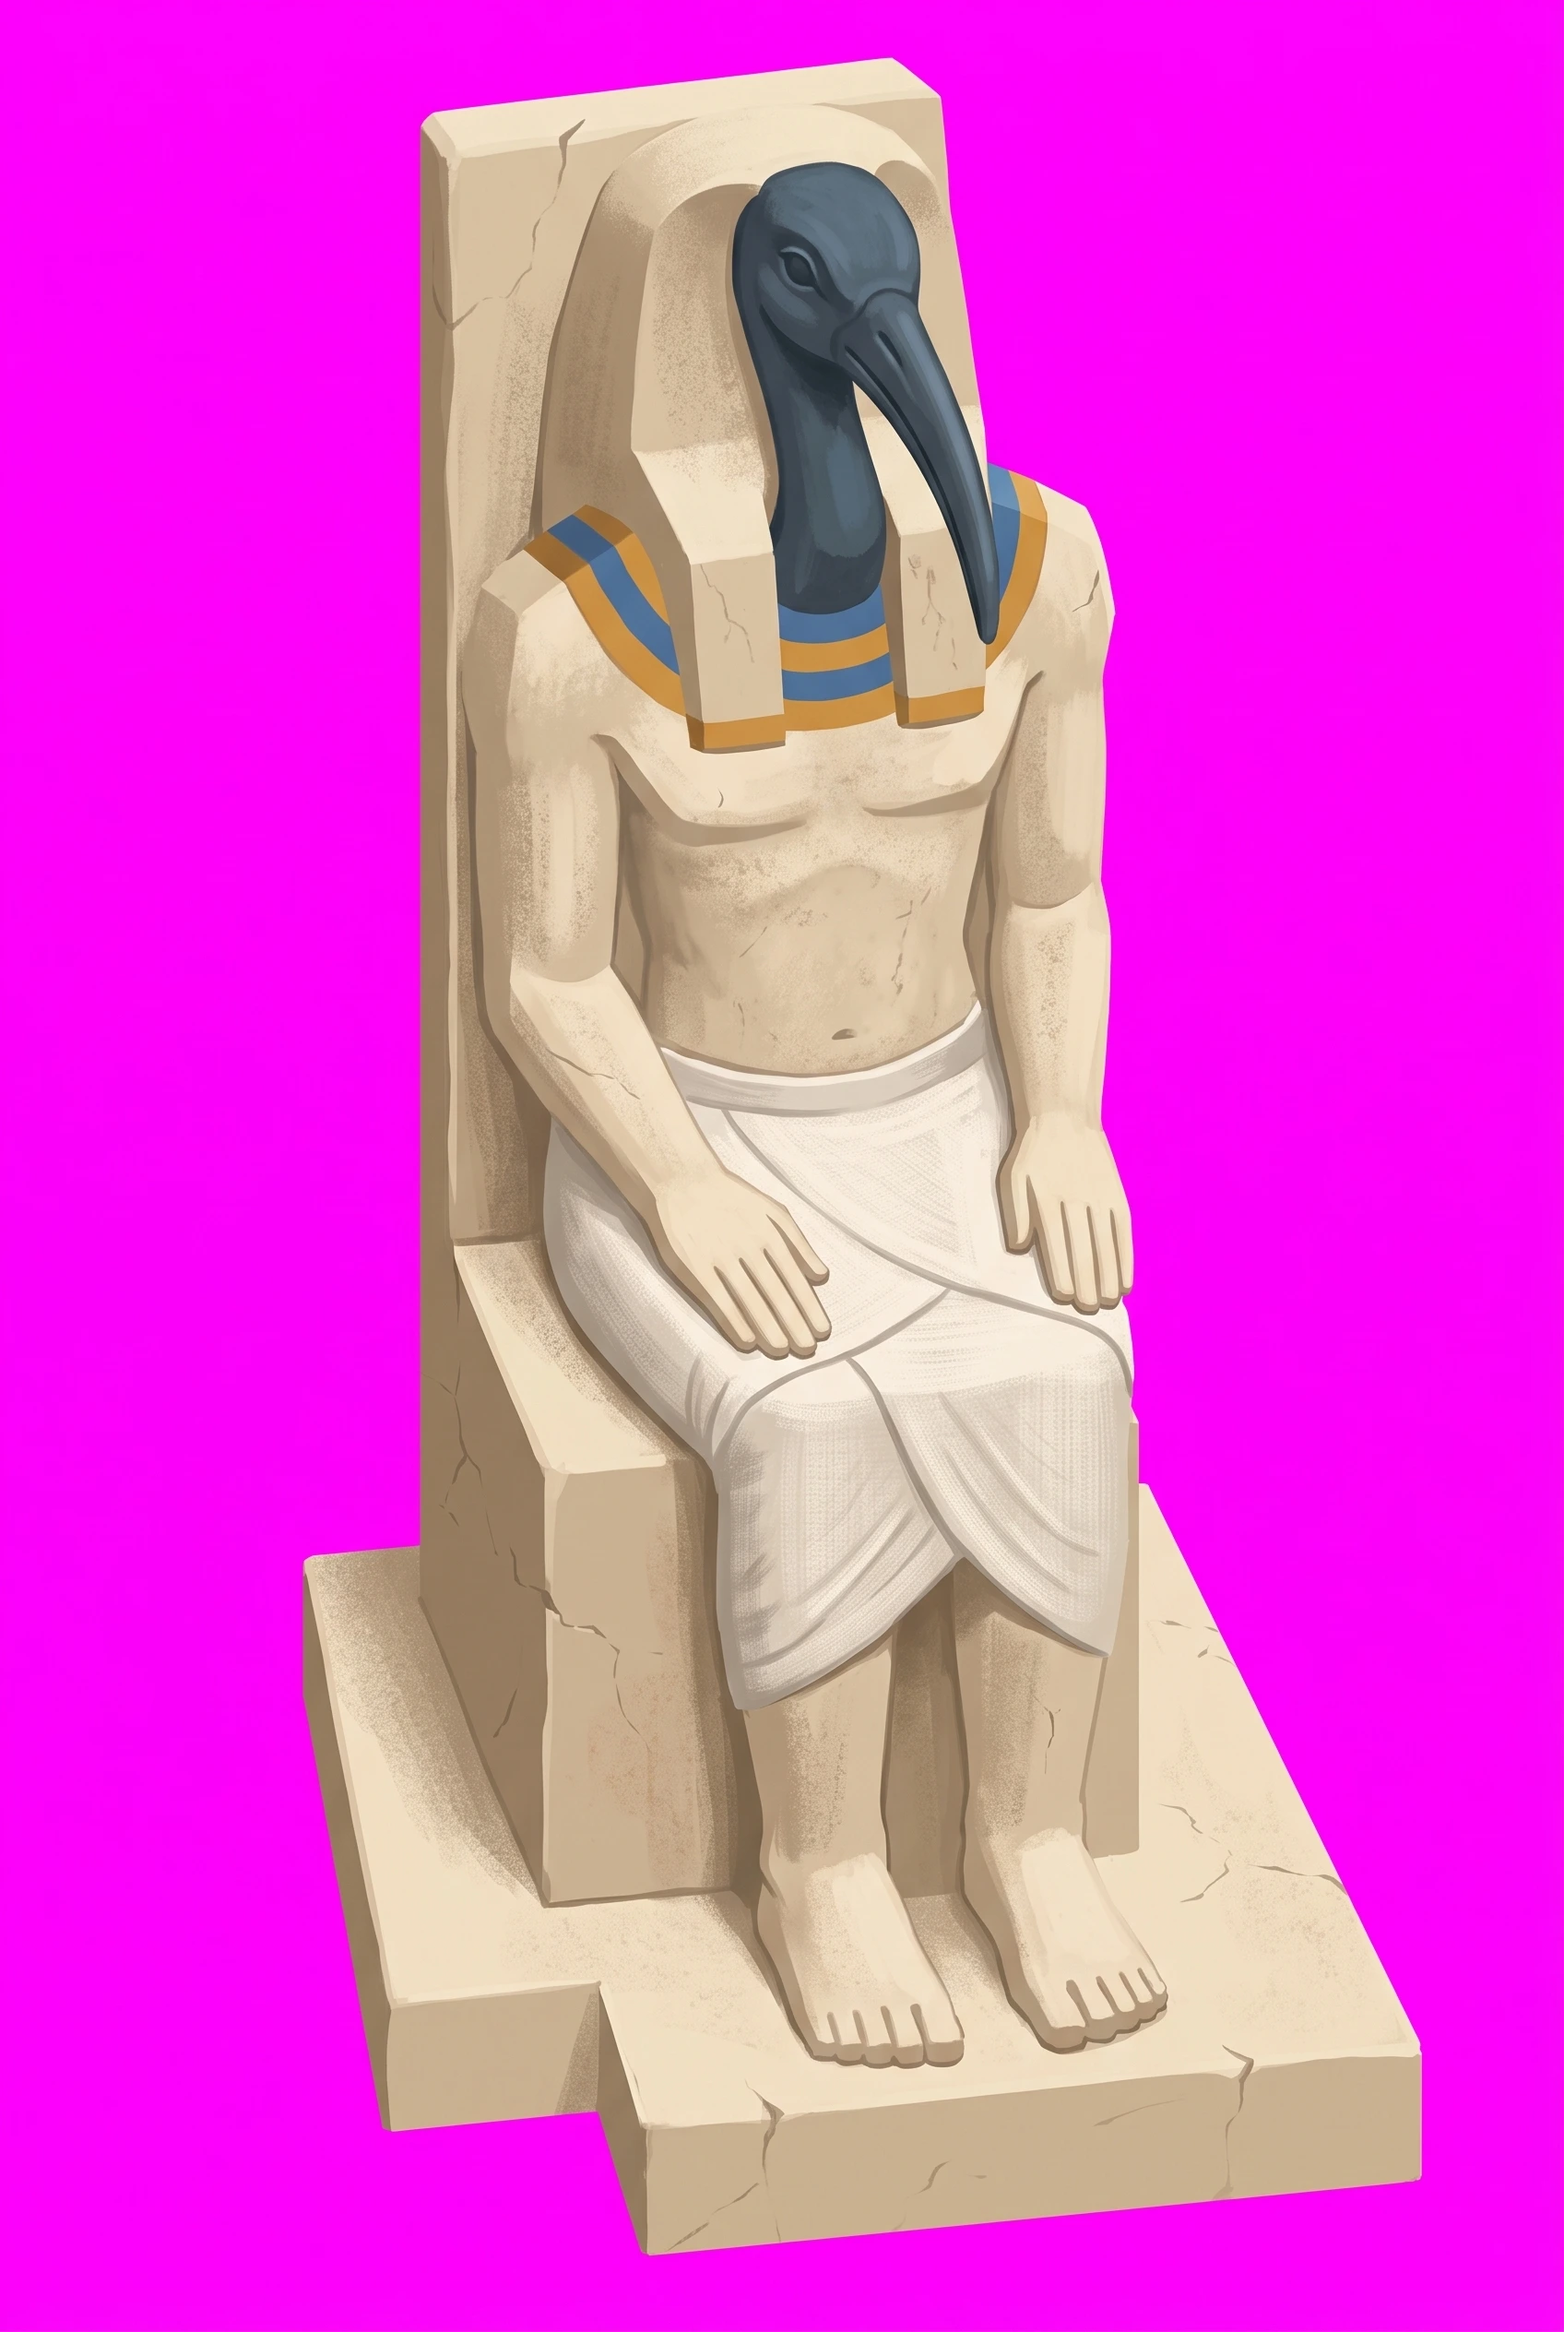
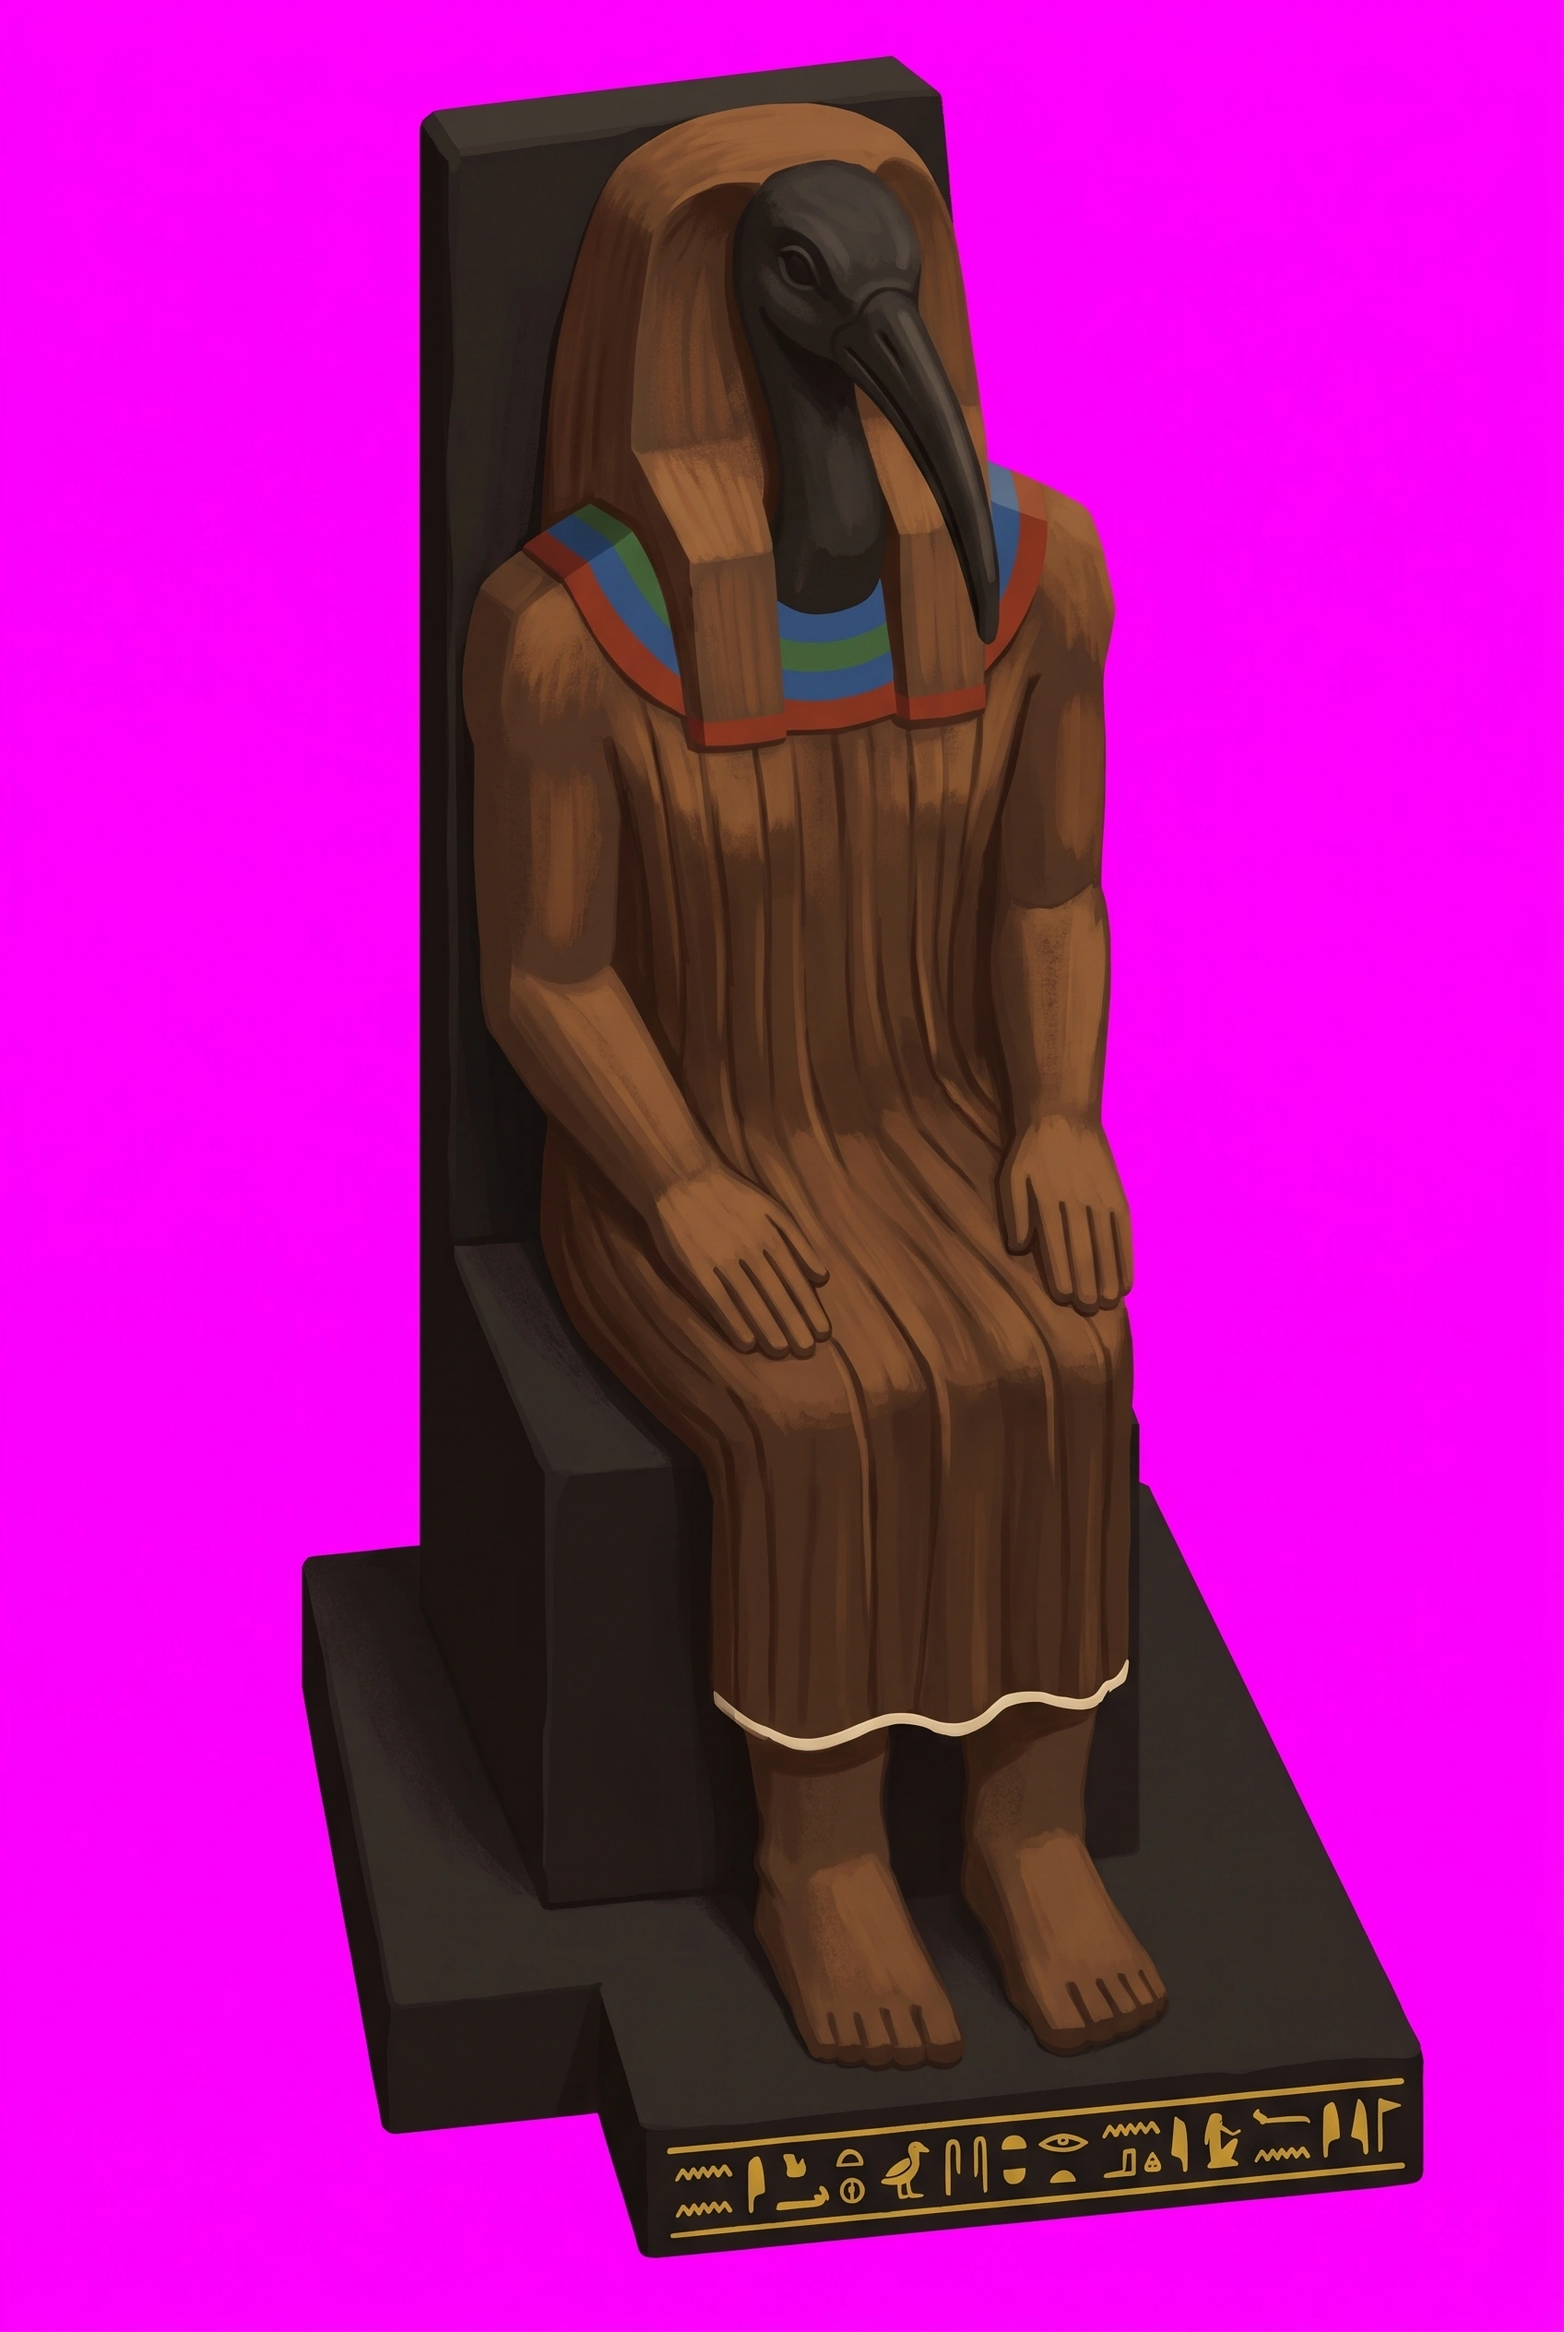
art: junior Thoth statue in dark wood
Claude-Session: https://claude.ai/code/session_01F6g2diRzQCzQwEf9zsEEGH

diff --git a/docs/instructions/repaint-queue.md b/docs/instructions/repaint-queue.md
@@ -483,7 +483,7 @@ Even lighting left to right, no hotspot, no vignette.
 
 ---
 
-## Nobleman — sixteen
+## Nobleman — fifteen
 
 The nobleman's existing props, repainted for the rank's new light orange floor. Each is its own thing
 first: cedar is cedar, linen is linen, pottery is pottery, painted in red ochre, Egyptian blue and leaf
@@ -506,59 +506,6 @@ The last nine are the house's own kinds, new with its activities ([themed-rooms.
 § Junior): each has a primitive of its own in `renderProp.py` and a guarded block in `art/rebuild.sh`. The
 banquet table and the bed are two cells across, so their frame is landscape three by two; the harp and the
 potted tree stand a cell taller, so theirs is portrait two by five.
-
-### `junior/statue-thoth` — Thoth seated, ibis-headed, in dark wood
-
-**Re-roll:** the rank's palette moved (2026-11-03, `Topology/Palette moodboard`). Repainted against the new light orange floor, in its own material's colours; copper only as a trim.
-
-**Attach:**
-
-1. `~/tile-previews/statue-thoth-junior-previous.png` — the previous painting, repainted over: it already holds the scaffold's pose and silhouette
-2. `~/tile-previews/junior-plain.png` — the material reference
-
-```
-A wall-less product shot of a single object, painted in flat matte gouache, no background, on pure magenta #FF00FF. Portrait, two units wide by three tall, exactly as the reference. Do not re-compose it into a square. Paint over the reference image itself.
-
-The object: a seated statue of THOTH, carved from one block of dark ACACIA WOOD. The upper marked part is
-the FIGURE; the block under it is the SEAT and PLINTH.
-
-IT IS A CARVED OBJECT AND NOT A PERSON. Block-carved: flat planes, hard arrises, the figure never
-leaves its block, nothing undercut. No anatomy is modelled. The figure is CLOTHED, no bare torso — bare
-painted flesh is what turns a statue into a cartoon character.
-
-His head is an IBIS head, painted black #2a1f18, with a long curved down-swept beak: the one mark that
-says who he is. His body is the oiled wood itself, #5e3a22, #6e4428 on its top planes, in a pleated robe
-from his collar to his shins, its pleats carved, its hem edged with a thin cream line #d8c8a8. A broad
-collar of Egyptian blue #2a5a9a, leaf green #3b6b45 and red ochre #8a3a2a bands covers his shoulders. The
-seat and plinth are painted black #2a1f18 with a band of small yellow #c9a040 hieroglyphs along the
-front.
-
-THE REFERENCE IS A ROUGHED-OUT BLOCK, deliberately left fat. CHANGE, freely, and ONLY this: the contour
-of the figure, and only by CUTTING. CARVE INWARD ONLY — nothing may end up further left, right, higher or
-lower than the rough shape reaches.
-
-EVERYTHING ELSE IS FIXED:
-
-1. THE FRAME. Portrait, two units wide by three tall, exactly as the reference. Do not re-compose it into a square.
-2. THE PERSPECTIVE, THE PROJECTION, THE ANGLE AND THE ROTATION ARE THE REFERENCE'S. Take all four from the reference image exactly and do not reason about them. It is not a photograph and not an isometric view.
-3. HE SITS, facing the viewer, hands on his knees.
-4. THE PLINTH IS EXACTLY AS THE REFERENCE DRAWS IT — its angle, its rotation, how much of its top shows. Do not swing it round, do not flatten it.
-5. THE PLACEMENT AND THE SIZE. Every part stays where the reference puts it, and the whole object stays as tall and as wide in the frame as it already is. The figure is the marked upper part; the base is the lower part. Do not shrink the figure onto a taller base.
-
-You are re-carving a shape, not re-staging a photograph.
-
-ANYTHING DRAWN OUTSIDE THE ROUGH SHAPE IS CUT OFF. Nothing is added below the plinth — no ground, no shadow, no floor.
-
-No highlights, no gloss, no rim light, no ground plane, no reflections. Matte throughout, evenly lit, crisp and clean. Nobleman's house: orange sandstone, painted plaster, cedar, linen, reed and pottery, each in its OWN colours so it reads at a glance as what it is. Copper is an accent only — a rim, a band, a hasp, gone verdigris green at the edges — never a tint over the whole object.
-```
-
-Then, once the return is in `~/Downloads`:
-
-```sh
-scaffold statue --contents=seated --spin=7 --colour=#4a3e34 --colour-figure=#6e4428 --floor=#e2a86f
-yarn import-tile art/masters/props/junior/statue-thoth.webp --tier=junior --name=statue-thoth --slot=prop \
-  --filter=smooth --mask="$OBJ" --seat="$SHADOW"
-```
 
 ### `junior/niche` — a lamp niche with a painted surround
 
